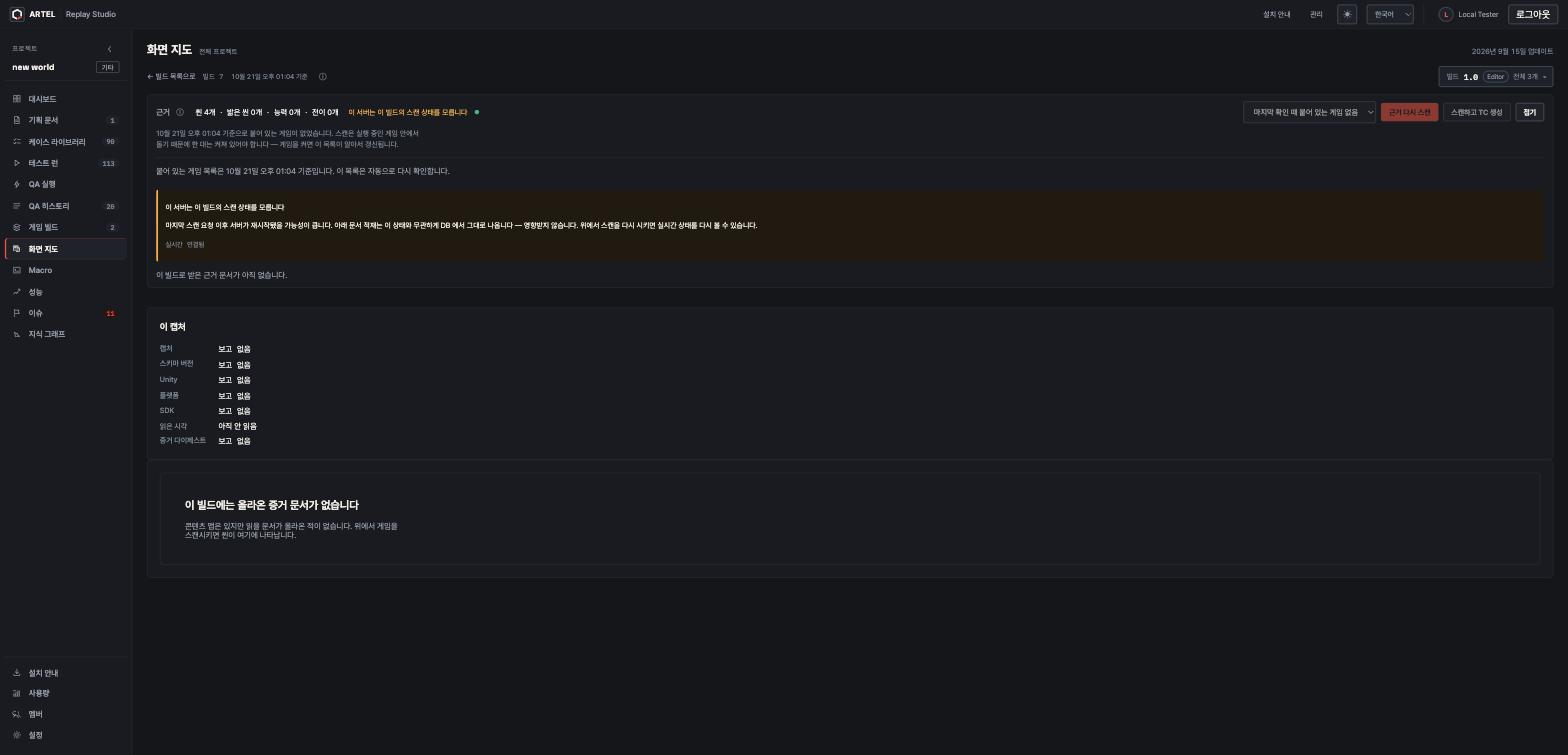
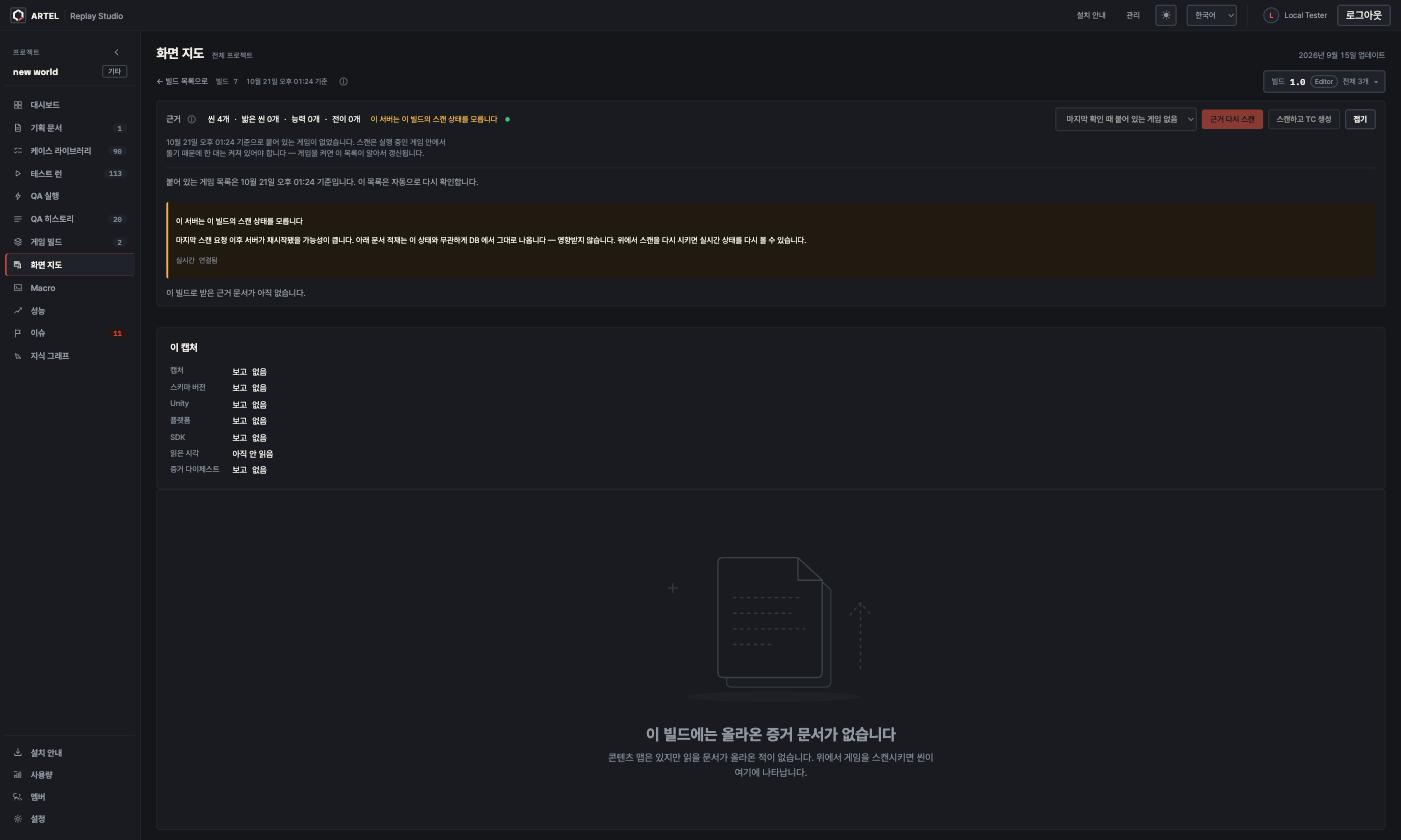
feat(content-map): 빈 상태 여섯 가지에 3D 선 그림
빌드 없음 · 한 번도 스캔 안 됨 · 문서 없음 · 안 읽힘 · 씬 없음 · 불러오기 실패가 글 한 줄짜리 상자였다.
QA 실행 · Macro 빈 화면(ARTEL-1162)의 SketchEmpty 와 같은 손그림으로, 상황마다 다른 그림(빌드 상자 ·
돋보기 · 빈 문서 · 문서와 모래시계 · 빈 지도 판 · 금 간 지도 판)을 남은 높이 가운데에 둔다.

ARTEL-1172

diff --git a/src/emptyStates/sketches.tsx b/src/emptyStates/sketches.tsx
@@ -69,3 +69,141 @@ export function MacroSketch() {
     </svg>
   )
 }
+
+/* ── 화면 지도의 빈 상태(ARTEL-1172) ─────────────────────────────────────── */
+
+const BOX_TOP = 'M80 58 L170 30 L262 58 L172 86 Z'
+
+/** 등록된 빌드가 없을 때: 버전 꼬리표가 달린 빈 빌드 상자. */
+export function BuildSketch() {
+  return (
+    <svg aria-hidden="true" className="qh-sketch" fill="none" viewBox="0 0 330 196">
+      {/* 상자 옆면 둘과 윗면 */}
+      <path className="qh-sketch-depth" d="M80 58 L172 86 L172 168 L82 140 Z" />
+      <path className="qh-sketch-face" d="M172 86 L262 58 L262 140 L172 168 Z" />
+      <path className="qh-sketch-face" d={BOX_TOP} />
+      {/* 열린 뚜껑 날개 */}
+      <path className="qh-sketch-soft" d="M80 58 L58 34 L148 8 L170 30" />
+      <path className="qh-sketch-dash" d="M262 58 L288 36 L196 10" />
+      {/* 꼬리표 */}
+      <path d="M198 108 L238 96 L246 104 L246 122 L206 134 L198 126 Z" />
+      <circle cx="205" cy="117" r="2.5" />
+      <path className="qh-sketch-soft" d="M214 118 L236 111 M214 126 L230 121" />
+      <path className="qh-sketch-dash" d="M172 98 L172 160" />
+      <path className="qh-sketch-soft" d="M42 128 l0 10 M37 133 l10 0 M296 150 l0 8 M292 154 l8 0" />
+      <ellipse className="qh-sketch-shade" cx="172" cy="178" rx="112" ry="6" />
+    </svg>
+  )
+}
+
+const SCREEN_FRAME = 'M40 24 Q38 16 47 16 L238 14 Q247 14 247 23 L248 132 Q248 140 239 140 L48 141 Q40 141 40 133 Z'
+
+/** 한 번도 스캔하지 않았을 때: 게임 화면 위를 훑는 돋보기. */
+export function ScanSketch() {
+  return (
+    <svg aria-hidden="true" className="qh-sketch" fill="none" viewBox="0 0 330 196">
+      <path className="qh-sketch-depth" d={SCREEN_FRAME} transform="translate(9 11)" />
+      <path className="qh-sketch-edge" d="M247 23 L256 34 M248 132 L257 143 M40 133 L49 144" />
+      <path className="qh-sketch-face" d={SCREEN_FRAME} />
+      {/* 화면 안: 언덕과 해, 단추 둘 */}
+      <path className="qh-sketch-soft" d="M52 118 Q96 86 132 112 Q170 82 236 116" />
+      <circle className="qh-sketch-soft" cx="206" cy="46" r="10" />
+      <path d="M66 40 Q96 38 128 40" />
+      <path className="qh-sketch-dash" d="M66 56 L112 56" />
+      {/* 훑는 선 */}
+      <path className="qh-sketch-dash" d="M52 78 L236 76" />
+      {/* 돋보기 */}
+      <circle className="qh-sketch-depth" cx="244" cy="118" r="30" />
+      <circle className="qh-sketch-face" cx="240" cy="112" r="30" />
+      <circle className="qh-sketch-soft" cx="240" cy="112" r="20" />
+      <path d="M262 134 L292 164" />
+      <path className="qh-sketch-soft" d="M296 28 l0 10 M291 33 l10 0" />
+      <ellipse className="qh-sketch-shade" cx="160" cy="182" rx="130" ry="6" />
+    </svg>
+  )
+}
+
+const SHEET = 'M0 6 Q0 0 6 0 L92 0 L120 26 L120 132 Q120 138 114 138 L6 138 Q0 138 0 132 Z'
+
+/** 올라온 문서가 없을 때: 접힌 귀퉁이만 있는 빈 문서 한 장. */
+export function DocumentSketch() {
+  return (
+    <svg aria-hidden="true" className="qh-sketch" fill="none" viewBox="0 0 330 196">
+      <g transform="translate(104 22)">
+        <path className="qh-sketch-depth" d={SHEET} transform="translate(10 11)" />
+        <path className="qh-sketch-face" d={SHEET} />
+        <path d="M92 0 L92 26 L120 26" />
+        <path className="qh-sketch-dash" d="M18 46 L96 46 M18 64 L84 64 M18 82 L100 82 M18 100 L66 100" />
+      </g>
+      {/* 올라오는 화살표 자리 — 아직 아무것도 안 왔다 */}
+      <path className="qh-sketch-dash" d="M268 150 L268 74 M256 88 L268 74 L280 88" />
+      <path className="qh-sketch-soft" d="M52 52 l0 10 M47 57 l10 0" />
+      <ellipse className="qh-sketch-shade" cx="168" cy="182" rx="100" ry="6" />
+    </svg>
+  )
+}
+
+/** 문서는 왔는데 아직 안 읽혔을 때: 쌓인 문서와 모래시계. */
+export function IngestSketch() {
+  return (
+    <svg aria-hidden="true" className="qh-sketch" fill="none" viewBox="0 0 330 196">
+      {[2, 1, 0].map((layer) => (
+        <g key={layer} transform={`translate(${70 + layer * 16} ${18 + layer * 10})`}>
+          <path className={layer === 0 ? 'qh-sketch-face' : 'qh-sketch-depth'} d={SHEET} />
+          {layer === 0 && <path d="M92 0 L92 26 L120 26" />}
+          {layer === 0 && <path className="qh-sketch-soft" d="M18 46 L96 46 M18 64 L84 64 M18 82 L100 82" />}
+        </g>
+      ))}
+      {/* 모래시계 */}
+      <g transform="translate(238 70)">
+        <path className="qh-sketch-face" d="M0 0 L44 0 L24 40 L44 80 L0 80 L20 40 Z" />
+        <path d="M-4 0 L48 0 M-4 80 L48 80" />
+        <path className="qh-sketch-soft" d="M8 72 Q22 60 36 72" />
+        <path className="qh-sketch-dash" d="M22 44 L22 64" />
+      </g>
+      <ellipse className="qh-sketch-shade" cx="170" cy="182" rx="128" ry="6" />
+    </svg>
+  )
+}
+
+const BOARD = 'M30 24 Q28 15 38 15 L286 13 Q296 14 296 24 L297 146 Q296 155 286 155 L39 157 Q29 156 29 146 Z'
+
+/** 읽었는데 씬이 없을 때: 점선 씬 자리만 있는 지도 판. [broken] 이면 잇는 선이 끊겨 있다(불러오기 실패). */
+export function SceneMapSketch({ broken = false }: { broken?: boolean }) {
+  return (
+    <svg aria-hidden="true" className="qh-sketch" fill="none" viewBox="0 0 330 196">
+      <path className="qh-sketch-depth" d={BOARD} transform="translate(9 11)" />
+      <path className="qh-sketch-edge" d="M296 24 L305 35 M297 146 L306 157 M29 146 L38 157" />
+      <path className="qh-sketch-face" d={BOARD} />
+      {/* 씬 카드 자리 셋 */}
+      {[
+        [52, 46],
+        [138, 30],
+        [214, 86],
+      ].map(([x, y], index) => (
+        <g key={index}>
+          <rect height="42" rx="6" strokeDasharray="4 4" width="64" x={x} y={y} />
+          <rect className="qh-sketch-soft" height="18" rx="3" width="22" x={x + 7} y={y + 8} />
+          <path className="qh-sketch-soft" d={`M${x + 36} ${y + 13} L${x + 56} ${y + 13} M${x + 36} ${y + 23} L${x + 50} ${y + 23}`} />
+        </g>
+      ))}
+      {/* 잇는 선 */}
+      {broken ? (
+        <>
+          {/* 판을 가로지르는 금과, 끊겨 두 토막이 난 잇는 선 */}
+          <path d="M170 14 L160 48 L176 70 L162 102 L178 130 L168 156" />
+          <path className="qh-sketch-soft" d="M116 66 Q124 58 132 55" />
+          <circle cx="134" cy="54" r="2.5" />
+          <circle cx="146" cy="58" r="2.5" />
+          <path className="qh-sketch-soft" d="M202 58 Q212 70 218 82" />
+          <path className="qh-sketch-soft" d="M140 40 l-6 -6 M148 42 l4 -8 M152 50 l8 -2" />
+        </>
+      ) : (
+        <path className="qh-sketch-dash" d="M116 66 Q128 50 138 50 M202 54 Q218 66 224 86" />
+      )}
+      <path className="qh-sketch-soft" d="M60 124 Q120 118 176 126" />
+      <path className="qh-sketch-soft" d="M312 20 l0 10 M307 25 l10 0" />
+      <ellipse className="qh-sketch-shade" cx="166" cy="182" rx="136" ry="6" />
+    </svg>
+  )
+}

diff --git a/src/contentMap/ContentMapPage.tsx b/src/contentMap/ContentMapPage.tsx
@@ -2,6 +2,8 @@ import { useCallback, useEffect, useMemo, useState, type ReactNode } from 'react
 import { Link, Navigate, useParams } from 'react-router-dom'
 import { useI18n } from '../i18n/useI18n'
 import { EdgeScrollbar } from '../design-system/primitives/EdgeScrollbar'
+import { SketchEmpty } from '../emptyStates/SketchEmpty'
+import { DocumentSketch, IngestSketch, ScanSketch, SceneMapSketch } from '../emptyStates/sketches'
 import { InfoHint } from '../design-system/primitives/InfoHint'
 import { LABEL_NODE_LIMIT } from '../knowledge/knowledgeLayout'
 import { useKnowledgeGraph } from '../knowledge/useKnowledgeGraph'
@@ -119,11 +121,17 @@ export function ContentMapReport({
     return (
       <section className="page content-map">
         {meta('')}
-        <div className="panel-message" role="alert">
-          <p className="panel-message-copy">{copy.states.loadFailed}</p>
-          <button className="button button--secondary" onClick={reload} type="button">
-            {copy.states.retry}
-          </button>
+        <div className="panel cm-empty" role="alert">
+          <SketchEmpty
+            actions={
+              <button className="button button--secondary" onClick={reload} type="button">
+                {copy.states.retry}
+              </button>
+            }
+            sketch={<SceneMapSketch broken />}
+            surface
+            title={copy.states.loadFailed}
+          />
         </div>
       </section>
     )
@@ -193,11 +201,8 @@ function ContentMapBody({ projectId, view }: { projectId: string; view: ContentM
   // 왜 비어 있는지만 말한다.
   if (view.contentMap === null) {
     return (
-      <section className="panel">
-        <div className="panel-message">
-          <h2>{copy.empty.neverUploadedTitle}</h2>
-          <p className="panel-message-copy">{copy.empty.neverUploadedCopy}</p>
-        </div>
+      <section className="panel cm-empty">
+        <SketchEmpty body={copy.empty.neverUploadedCopy} sketch={<ScanSketch />} surface title={copy.empty.neverUploadedTitle} />
       </section>
     )
   }
@@ -210,13 +215,13 @@ function ContentMapBody({ projectId, view }: { projectId: string; view: ContentM
     return (
       <>
         <CaptureHeader view={view} />
-        <section className="panel">
-          <div className="panel-message">
-            <h2>{hasUploadedDocument ? copy.empty.notIngestedTitle : copy.empty.noDocumentsTitle}</h2>
-            <p className="panel-message-copy">
-              {hasUploadedDocument ? copy.empty.notIngestedCopy : copy.empty.noDocumentsCopy}
-            </p>
-          </div>
+        <section className="panel cm-empty">
+          <SketchEmpty
+            body={hasUploadedDocument ? copy.empty.notIngestedCopy : copy.empty.noDocumentsCopy}
+            sketch={hasUploadedDocument ? <IngestSketch /> : <DocumentSketch />}
+            surface
+            title={hasUploadedDocument ? copy.empty.notIngestedTitle : copy.empty.noDocumentsTitle}
+          />
         </section>
       </>
     )
@@ -228,11 +233,8 @@ function ContentMapBody({ projectId, view }: { projectId: string; view: ContentM
     return (
       <>
         <CaptureHeader view={view} />
-        <section className="panel">
-          <div className="panel-message">
-            <h2>{copy.empty.noScenesTitle}</h2>
-            <p className="panel-message-copy">{copy.empty.noScenesCopy}</p>
-          </div>
+        <section className="panel cm-empty">
+          <SketchEmpty body={copy.empty.noScenesCopy} sketch={<SceneMapSketch />} surface title={copy.empty.noScenesTitle} />
         </section>
       </>
     )

diff --git a/src/contentMap/ContentMapSection.tsx b/src/contentMap/ContentMapSection.tsx
@@ -6,6 +6,8 @@ import { useWorkspace } from '../projects/workspace/workspaceContext'
 import { useFieldBinding } from '../projectAgent/bindings'
 import { requireKnownId } from '../projectAgent/specs/fieldWriters'
 import { CONTENT_MAP_BUILD_FIELD } from '../projectAgent/specs/contentMap'
+import { SketchEmpty } from '../emptyStates/SketchEmpty'
+import { BuildSketch } from '../emptyStates/sketches'
 import { BuildSwitcher } from './BuildSwitcher'
 import { ContentMapReport } from './ContentMapPage'
 import './contentMap.css'
@@ -74,10 +76,9 @@ export function ContentMapSection() {
       </h2>
 
       {selectedBuild === undefined ? (
-        <div className="panel-message">
-          <h3>{copy.noBuildsTitle}</h3>
-          <p className="panel-message-copy">{copy.noBuildsCopy}</p>
-        </div>
+        <section className="panel cm-empty">
+          <SketchEmpty body={copy.noBuildsCopy} sketch={<BuildSketch />} surface title={copy.noBuildsTitle} />
+        </section>
       ) : (
         <ContentMapReport
           about={copy.subtitle}

diff --git a/src/contentMap/contentMap.css b/src/contentMap/contentMap.css
@@ -988,3 +988,21 @@
 .cm-step-summary {
   line-height: 1.7;
 }
+
+/* 빈 상태: 그림이 남은 높이 가운데에 선다 */
+.content-map .cm-empty,
+.cm-section > .cm-empty {
+  display: flex;
+  flex: 1;
+  min-height: 0;
+  padding: 0;
+}
+.content-map .cm-empty .sketch-empty,
+.cm-section > .cm-empty .sketch-empty {
+  min-height: 360px;
+}
+@media (min-height: 600px) and (min-width: 1024px) {
+  .cm-section > .cm-empty {
+    flex: 1;
+  }
+}
